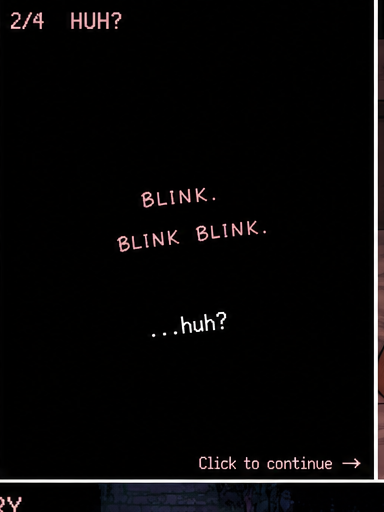
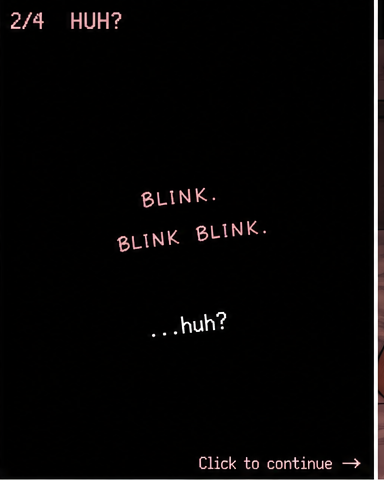
Add files via upload

diff --git a/PROJECT_STATE.md b/PROJECT_STATE.md
@@ -1,4 +1,4 @@
-# Goodbye Goth v0.8
+# Goodbye Goth v0.9
 
 ## This pass
 Animation-only pass for Level 1 exploration. No combat, puzzle, relationship, loading screen, or map logic was intentionally changed.
@@ -12,3 +12,6 @@ Animation-only pass for Level 1 exploration. No combat, puzzle, relationship, lo
 
 ## Next
 After this is tested, fix combat as a separate pass. Do not combine unrelated systems into the same patch.
+
+
+V0.9 change: replaced the four intro story images with clean crops from the approved storyboard-master-v0.2 reference. This removes the baked-in title-screen strip under the first story panel and matches the preferred cartoon-ey illustrated style. No gameplay code was changed.

diff --git a/README.md b/README.md
@@ -28,3 +28,6 @@ Keep GitHub as the master repository and Netlify as the published site. Replace 
 
 ## v0.5 development strategy
 This version intentionally isolates the title/intro/layout/relationship systems. Combat is the next separate pass so combat bugs do not destabilise the rest of the game.
+
+
+V0.9: Story intro visuals now use clean crops from the approved storyboard reference, with no baked-in title-screen strip. Gameplay code unchanged.
